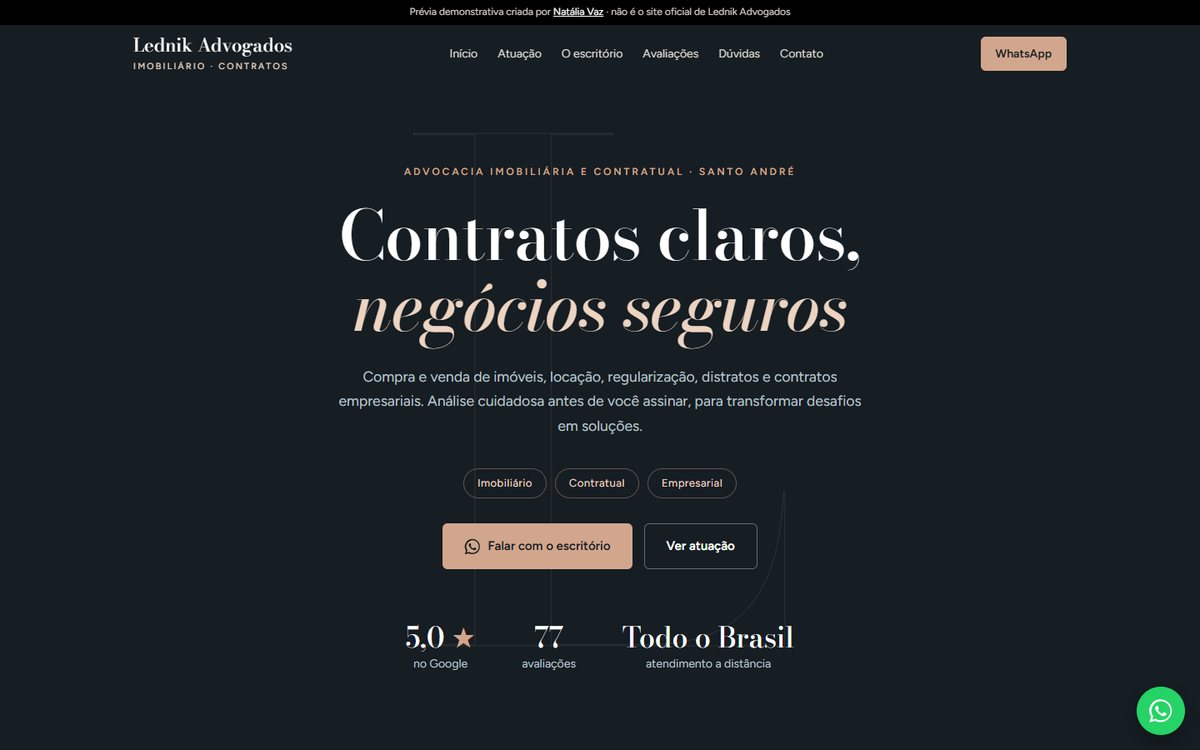
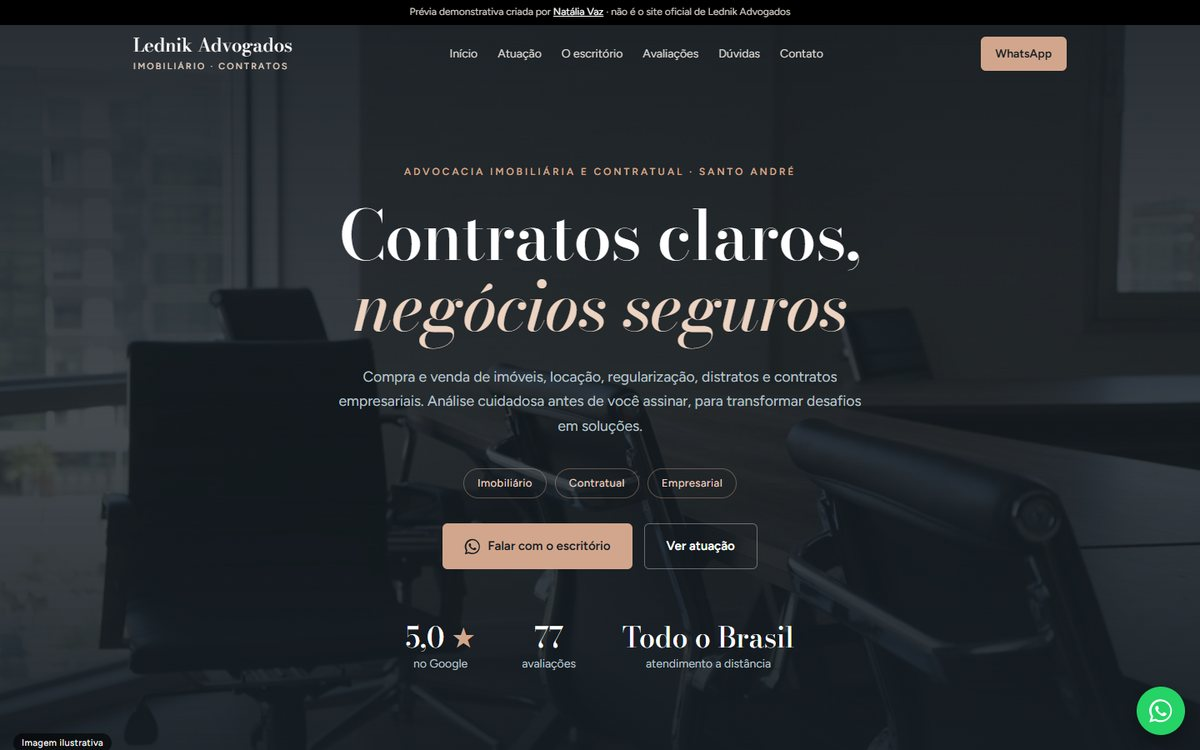
Prévias leads A: galeria com fotos do Google, hero do Lednik com imagem, fotos do Alisson

diff --git a/claudia-duraes/index.html b/claudia-duraes/index.html
@@ -160,10 +160,28 @@ a{color:inherit}
 @media (max-width:900px){.review{flex-basis:calc((100% - 20px)/2)}}
 @media (max-width:600px){.review{flex-basis:86%}}
 
-/* galeria */
-.gallery{display:grid;grid-template-columns:repeat(3,1fr);gap:16px}
-.gallery img{width:100%;aspect-ratio:4/5;object-fit:cover;border-radius:10px}
-@media (max-width:700px){.gallery{grid-template-columns:1fr 1fr}}
+/* galeria: colagem (bento) com fotos REAIS do Google, sem pessoas. Classe .n3/.n4/.n5 = nº de fotos */
+.mosaic{display:grid;grid-template-columns:repeat(12,1fr);grid-auto-rows:clamp(44px,5.6vw,74px)}
+.mosaic figure{position:relative;margin:0;border-radius:12px;overflow:hidden;border:6px solid var(--bg);box-shadow:0 22px 44px -22px rgba(0,0,0,.45);background:var(--surface)}
+.mosaic img{width:100%;height:100%;object-fit:cover;display:block}
+@media (min-width:701px){
+  .mosaic figure:nth-child(1){grid-column:1/8;grid-row:1/8;z-index:1}
+  .mosaic figure:nth-child(2){grid-column:7/13;grid-row:1/5;z-index:2}
+  .mosaic figure:nth-child(3){grid-column:8/11;grid-row:4/9;z-index:3}
+  .mosaic figure:nth-child(4){grid-column:10/13;grid-row:5/10;z-index:4}
+  .mosaic figure:nth-child(5){grid-column:3/8;grid-row:7/10;z-index:2}
+  .mosaic.n3 figure:nth-child(3){grid-column:8/13;grid-row:4/8}
+  .mosaic.n4 figure:nth-child(3){grid-column:7/10;grid-row:5/9}
+  .mosaic.n4 figure:nth-child(4){grid-column:9/13;grid-row:4/8}
+}
+.mosaic-fonte{margin-top:18px;font-size:13px;color:var(--muted);text-align:center}
+@media (max-width:700px){
+  .mosaic{grid-template-columns:1fr 1fr;grid-auto-rows:150px;gap:0}
+  .mosaic figure:nth-child(1){grid-column:1/3;grid-row:span 2}
+  .mosaic figure:nth-child(2){margin:-28px -10px 0 0;z-index:2}
+  .mosaic figure:nth-child(3){margin:6px 0 -22px -10px;z-index:3}
+  .mosaic.n4 figure:nth-child(4){grid-column:1/3}
+}
 
 /* contato */
 .contact{display:grid;grid-template-columns:1fr 1.1fr;gap:36px}
@@ -266,6 +284,7 @@ a{color:inherit}
       <li><a href="#inicio">Início</a></li>
       <li><a href="#servicos">Atuação</a></li>
       <li><a href="#sobre">Sobre</a></li>
+      <li><a href="#galeria">O espaço</a></li>
       <li><a href="#avaliacoes">Avaliações</a></li>
       <li><a href="#contato">Contato</a></li>
     </ul>
@@ -357,6 +376,24 @@ a{color:inherit}
       <p>O escritório fica no Centro de Santo André, no Edifício Cruzeiro Sul, e conta com uma equipe de advogadas. Nos momentos mais difíceis, o atendimento é acolhedor, transparente e disponível 24 horas.</p>
       <a class="btn" href="https://wa.me/5511946651736?text=Ol%C3%A1%2C%20Dra.%20Cl%C3%A1udia%21%20Vi%20o%20seu%20site%20e%20preciso%20de%20uma%20orienta%C3%A7%C3%A3o." target="_blank" rel="noopener">Falar com a Dra. Cláudia</a>
     </div>
+  </div>
+</section>
+
+<!-- OPCIONAL: só com fotos reais (perfil do Google/Instagram, SEM pessoas na abordagem direta). Montado pelo montar.py a partir de cfg['galeria'] -->
+<section class="section" id="galeria" style="padding-top:0">
+  <div class="wrap">
+    <div class="head center reveal">
+      <span class="kicker">O espaço</span>
+      <h2>Um espaço reservado para ouvir você</h2>
+    </div>
+    <div class="mosaic n5">
+      <figure class="reveal"><img src="assets/galeria-1.jpg" alt="Foto do escritório Cláudia Durães" loading="lazy"></figure>
+      <figure class="reveal"><img src="assets/galeria-2.jpg" alt="Foto do escritório Cláudia Durães" loading="lazy"></figure>
+      <figure class="reveal"><img src="assets/galeria-3.jpg" alt="Foto do escritório Cláudia Durães" loading="lazy"></figure>
+      <figure class="reveal"><img src="assets/galeria-4.jpg" alt="Foto do escritório Cláudia Durães" loading="lazy"></figure>
+      <figure class="reveal"><img src="assets/galeria-5.jpg" alt="Foto do escritório Cláudia Durães" loading="lazy"></figure>
+    </div>
+    <p class="mosaic-fonte">Fotos do perfil do escritório no Google</p>
   </div>
 </section>
 

diff --git a/alisson-oliveira/index.html b/alisson-oliveira/index.html
@@ -162,10 +162,28 @@ a{color:inherit}
 @media (max-width:900px){.review{flex-basis:calc((100% - 20px)/2)}}
 @media (max-width:600px){.review{flex-basis:86%}}
 
-/* galeria */
-.gallery{display:grid;grid-template-columns:repeat(3,1fr);gap:16px}
-.gallery img{width:100%;aspect-ratio:4/5;object-fit:cover;border-radius:10px}
-@media (max-width:700px){.gallery{grid-template-columns:1fr 1fr}}
+/* galeria: colagem (bento) com fotos REAIS do Google, sem pessoas. Classe .n3/.n4/.n5 = nº de fotos */
+.mosaic{display:grid;grid-template-columns:repeat(12,1fr);grid-auto-rows:clamp(44px,5.6vw,74px)}
+.mosaic figure{position:relative;margin:0;border-radius:12px;overflow:hidden;border:6px solid var(--bg);box-shadow:0 22px 44px -22px rgba(0,0,0,.45);background:var(--surface)}
+.mosaic img{width:100%;height:100%;object-fit:cover;display:block}
+@media (min-width:701px){
+  .mosaic figure:nth-child(1){grid-column:1/8;grid-row:1/8;z-index:1}
+  .mosaic figure:nth-child(2){grid-column:7/13;grid-row:1/5;z-index:2}
+  .mosaic figure:nth-child(3){grid-column:8/11;grid-row:4/9;z-index:3}
+  .mosaic figure:nth-child(4){grid-column:10/13;grid-row:5/10;z-index:4}
+  .mosaic figure:nth-child(5){grid-column:3/8;grid-row:7/10;z-index:2}
+  .mosaic.n3 figure:nth-child(3){grid-column:8/13;grid-row:4/8}
+  .mosaic.n4 figure:nth-child(3){grid-column:7/10;grid-row:5/9}
+  .mosaic.n4 figure:nth-child(4){grid-column:9/13;grid-row:4/8}
+}
+.mosaic-fonte{margin-top:18px;font-size:13px;color:var(--muted);text-align:center}
+@media (max-width:700px){
+  .mosaic{grid-template-columns:1fr 1fr;grid-auto-rows:150px;gap:0}
+  .mosaic figure:nth-child(1){grid-column:1/3;grid-row:span 2}
+  .mosaic figure:nth-child(2){margin:-28px -10px 0 0;z-index:2}
+  .mosaic figure:nth-child(3){margin:6px 0 -22px -10px;z-index:3}
+  .mosaic.n4 figure:nth-child(4){grid-column:1/3}
+}
 
 /* contato */
 .contact{display:grid;grid-template-columns:1fr 1.1fr;gap:36px}
@@ -264,6 +282,7 @@ a{color:inherit}
       <li><a href="#inicio">Início</a></li>
       <li><a href="#servicos">Atuação</a></li>
       <li><a href="#sobre">Sobre</a></li>
+      <li><a href="#galeria">O espaço</a></li>
       <li><a href="#avaliacoes">Avaliações</a></li>
       <li><a href="#contato">Contato</a></li>
     </ul>
@@ -355,6 +374,24 @@ a{color:inherit}
       <blockquote>“Cada histórico é único e singular. O que é bom para um amigo pode não ser para você!”</blockquote>
       <a class="btn" href="https://wa.me/5511972237271?text=Ol%C3%A1%2C%20Dr.%20Alisson%21%20Vi%20o%20seu%20site%20e%20gostaria%20de%20uma%20orienta%C3%A7%C3%A3o%20sobre%20aposentadoria/INSS." target="_blank" rel="noopener">Falar sobre o meu caso</a>
     </div>
+  </div>
+</section>
+
+<!-- OPCIONAL: só com fotos reais (perfil do Google/Instagram, SEM pessoas na abordagem direta). Montado pelo montar.py a partir de cfg['galeria'] -->
+<section class="section" id="galeria" style="padding-top:0">
+  <div class="wrap">
+    <div class="head center reveal">
+      <span class="kicker">O espaço</span>
+      <h2>Um escritório pronto para receber você</h2>
+    </div>
+    <div class="mosaic n5">
+      <figure class="reveal"><img src="assets/galeria-1.jpg" alt="Foto do escritório Alisson Oliveira" loading="lazy"></figure>
+      <figure class="reveal"><img src="assets/galeria-2.jpg" alt="Foto do escritório Alisson Oliveira" loading="lazy"></figure>
+      <figure class="reveal"><img src="assets/galeria-3.jpg" alt="Foto do escritório Alisson Oliveira" loading="lazy"></figure>
+      <figure class="reveal"><img src="assets/galeria-4.jpg" alt="Foto do escritório Alisson Oliveira" loading="lazy"></figure>
+      <figure class="reveal"><img src="assets/galeria-5.jpg" alt="Foto do escritório Alisson Oliveira" loading="lazy"></figure>
+    </div>
+    <p class="mosaic-fonte">Fotos do perfil do escritório no Google</p>
   </div>
 </section>
 

diff --git a/leite-alves-pinheiro/index.html b/leite-alves-pinheiro/index.html
@@ -162,10 +162,28 @@ a{color:inherit}
 @media (max-width:900px){.review{flex-basis:calc((100% - 20px)/2)}}
 @media (max-width:600px){.review{flex-basis:86%}}
 
-/* galeria */
-.gallery{display:grid;grid-template-columns:repeat(3,1fr);gap:16px}
-.gallery img{width:100%;aspect-ratio:4/5;object-fit:cover;border-radius:10px}
-@media (max-width:700px){.gallery{grid-template-columns:1fr 1fr}}
+/* galeria: colagem (bento) com fotos REAIS do Google, sem pessoas. Classe .n3/.n4/.n5 = nº de fotos */
+.mosaic{display:grid;grid-template-columns:repeat(12,1fr);grid-auto-rows:clamp(44px,5.6vw,74px)}
+.mosaic figure{position:relative;margin:0;border-radius:12px;overflow:hidden;border:6px solid var(--bg);box-shadow:0 22px 44px -22px rgba(0,0,0,.45);background:var(--surface)}
+.mosaic img{width:100%;height:100%;object-fit:cover;display:block}
+@media (min-width:701px){
+  .mosaic figure:nth-child(1){grid-column:1/8;grid-row:1/8;z-index:1}
+  .mosaic figure:nth-child(2){grid-column:7/13;grid-row:1/5;z-index:2}
+  .mosaic figure:nth-child(3){grid-column:8/11;grid-row:4/9;z-index:3}
+  .mosaic figure:nth-child(4){grid-column:10/13;grid-row:5/10;z-index:4}
+  .mosaic figure:nth-child(5){grid-column:3/8;grid-row:7/10;z-index:2}
+  .mosaic.n3 figure:nth-child(3){grid-column:8/13;grid-row:4/8}
+  .mosaic.n4 figure:nth-child(3){grid-column:7/10;grid-row:5/9}
+  .mosaic.n4 figure:nth-child(4){grid-column:9/13;grid-row:4/8}
+}
+.mosaic-fonte{margin-top:18px;font-size:13px;color:var(--muted);text-align:center}
+@media (max-width:700px){
+  .mosaic{grid-template-columns:1fr 1fr;grid-auto-rows:150px;gap:0}
+  .mosaic figure:nth-child(1){grid-column:1/3;grid-row:span 2}
+  .mosaic figure:nth-child(2){margin:-28px -10px 0 0;z-index:2}
+  .mosaic figure:nth-child(3){margin:6px 0 -22px -10px;z-index:3}
+  .mosaic.n4 figure:nth-child(4){grid-column:1/3}
+}
 
 /* contato */
 .contact{display:grid;grid-template-columns:1fr 1.1fr;gap:36px}
@@ -272,6 +290,7 @@ a{color:inherit}
       <li><a href="#inicio">Início</a></li>
       <li><a href="#servicos">Áreas</a></li>
       <li><a href="#sobre">O escritório</a></li>
+      <li><a href="#galeria">Fachada</a></li>
       <li><a href="#avaliacoes">Avaliações</a></li>
       <li><a href="#contato">Contato</a></li>
     </ul>
@@ -367,6 +386,22 @@ a{color:inherit}
       <blockquote>“Estratégia, ética e defesa.”</blockquote>
       <a class="btn" href="https://wa.me/5511987317562?text=Ol%C3%A1%21%20Vi%20o%20site%20da%20Leite%20Alves%20Pinheiro%20Advocacia%20e%20gostaria%20de%20uma%20orienta%C3%A7%C3%A3o." target="_blank" rel="noopener">Falar com o escritório</a>
     </div>
+  </div>
+</section>
+
+<!-- OPCIONAL: só com fotos reais (perfil do Google/Instagram, SEM pessoas na abordagem direta). Montado pelo montar.py a partir de cfg['galeria'] -->
+<section class="section" id="galeria" style="padding-top:0">
+  <div class="wrap">
+    <div class="head center reveal">
+      <span class="kicker">Onde estamos</span>
+      <h2>Na Alameda Martins Fontes, em Santa Terezinha</h2>
+    </div>
+    <div class="mosaic n3">
+      <figure class="reveal"><img src="assets/galeria-1.jpg" alt="Foto do escritório Leite Alves Pinheiro" loading="lazy"></figure>
+      <figure class="reveal"><img src="assets/galeria-2.jpg" alt="Foto do escritório Leite Alves Pinheiro" loading="lazy"></figure>
+      <figure class="reveal"><img src="assets/galeria-3.jpg" alt="Foto do escritório Leite Alves Pinheiro" loading="lazy"></figure>
+    </div>
+    <p class="mosaic-fonte">Fotos do perfil do escritório no Google</p>
   </div>
 </section>
 

diff --git a/lednik-advogados/index.html b/lednik-advogados/index.html
@@ -91,11 +91,11 @@ a{color:inherit}
 }
 @media (max-width:420px){.nav-right .btn.sm{display:none}}
 
-/* hero (TYPOGRAPHIC centralizado, sem foto) */
-.hero{position:relative;background:var(--dark);color:#e3e7ea;overflow:hidden;padding:190px 0 110px;text-align:center}
-.hero::before{content:"L";position:absolute;left:50%;top:52%;transform:translate(-50%,-50%);font-family:var(--serif);font-size:min(78vw,820px);line-height:1;color:transparent;-webkit-text-stroke:1px rgba(210,166,140,.14);pointer-events:none}
+/* hero (TYPOGRAPHIC centralizado sobre foto de escritório do kit, escurecida na cor da ID) */
+.hero{position:relative;background:linear-gradient(180deg,rgba(22,29,35,.93) 0%,rgba(22,29,35,.8) 55%,rgba(22,29,35,.95) 100%),url(assets/hero.jpg) center/cover var(--dark);color:#e3e7ea;overflow:hidden;padding:190px 0 110px;text-align:center}
 .hero::after{content:"";position:absolute;inset:auto 0 0;height:1px;background:linear-gradient(90deg,transparent,var(--accent),transparent);opacity:.5}
 .hero .wrap{position:relative;z-index:1}
+.hero>.ilustr{left:16px;bottom:16px;z-index:2}
 .hero-text{max-width:860px;margin-inline:auto}
 .hero h1{font-family:var(--serif);font-weight:500;color:#fff;font-size:clamp(40px,6.4vw,82px);line-height:1.04;margin:22px 0 26px;letter-spacing:-.01em}
 .hero h1 i{color:var(--accent-soft)}
@@ -159,10 +159,28 @@ a{color:inherit}
 @media (max-width:900px){.review{flex-basis:calc((100% - 20px)/2)}}
 @media (max-width:600px){.review{flex-basis:86%}}
 
-/* galeria */
-.gallery{display:grid;grid-template-columns:repeat(3,1fr);gap:16px}
-.gallery img{width:100%;aspect-ratio:4/5;object-fit:cover;border-radius:10px}
-@media (max-width:700px){.gallery{grid-template-columns:1fr 1fr}}
+/* galeria: colagem (bento) com fotos REAIS do Google, sem pessoas. Classe .n3/.n4/.n5 = nº de fotos */
+.mosaic{display:grid;grid-template-columns:repeat(12,1fr);grid-auto-rows:clamp(44px,5.6vw,74px)}
+.mosaic figure{position:relative;margin:0;border-radius:12px;overflow:hidden;border:6px solid var(--bg);box-shadow:0 22px 44px -22px rgba(0,0,0,.45);background:var(--surface)}
+.mosaic img{width:100%;height:100%;object-fit:cover;display:block}
+@media (min-width:701px){
+  .mosaic figure:nth-child(1){grid-column:1/8;grid-row:1/8;z-index:1}
+  .mosaic figure:nth-child(2){grid-column:7/13;grid-row:1/5;z-index:2}
+  .mosaic figure:nth-child(3){grid-column:8/11;grid-row:4/9;z-index:3}
+  .mosaic figure:nth-child(4){grid-column:10/13;grid-row:5/10;z-index:4}
+  .mosaic figure:nth-child(5){grid-column:3/8;grid-row:7/10;z-index:2}
+  .mosaic.n3 figure:nth-child(3){grid-column:8/13;grid-row:4/8}
+  .mosaic.n4 figure:nth-child(3){grid-column:7/10;grid-row:5/9}
+  .mosaic.n4 figure:nth-child(4){grid-column:9/13;grid-row:4/8}
+}
+.mosaic-fonte{margin-top:18px;font-size:13px;color:var(--muted);text-align:center}
+@media (max-width:700px){
+  .mosaic{grid-template-columns:1fr 1fr;grid-auto-rows:150px;gap:0}
+  .mosaic figure:nth-child(1){grid-column:1/3;grid-row:span 2}
+  .mosaic figure:nth-child(2){margin:-28px -10px 0 0;z-index:2}
+  .mosaic figure:nth-child(3){margin:6px 0 -22px -10px;z-index:3}
+  .mosaic.n4 figure:nth-child(4){grid-column:1/3}
+}
 
 /* contato */
 .contact{display:grid;grid-template-columns:1fr 1.1fr;gap:36px}
@@ -298,6 +316,7 @@ a{color:inherit}
       </div>
     </div>
   </div>
+  <span class="ilustr">Imagem ilustrativa</span>
 </header>
 
 <section class="section" id="servicos">
